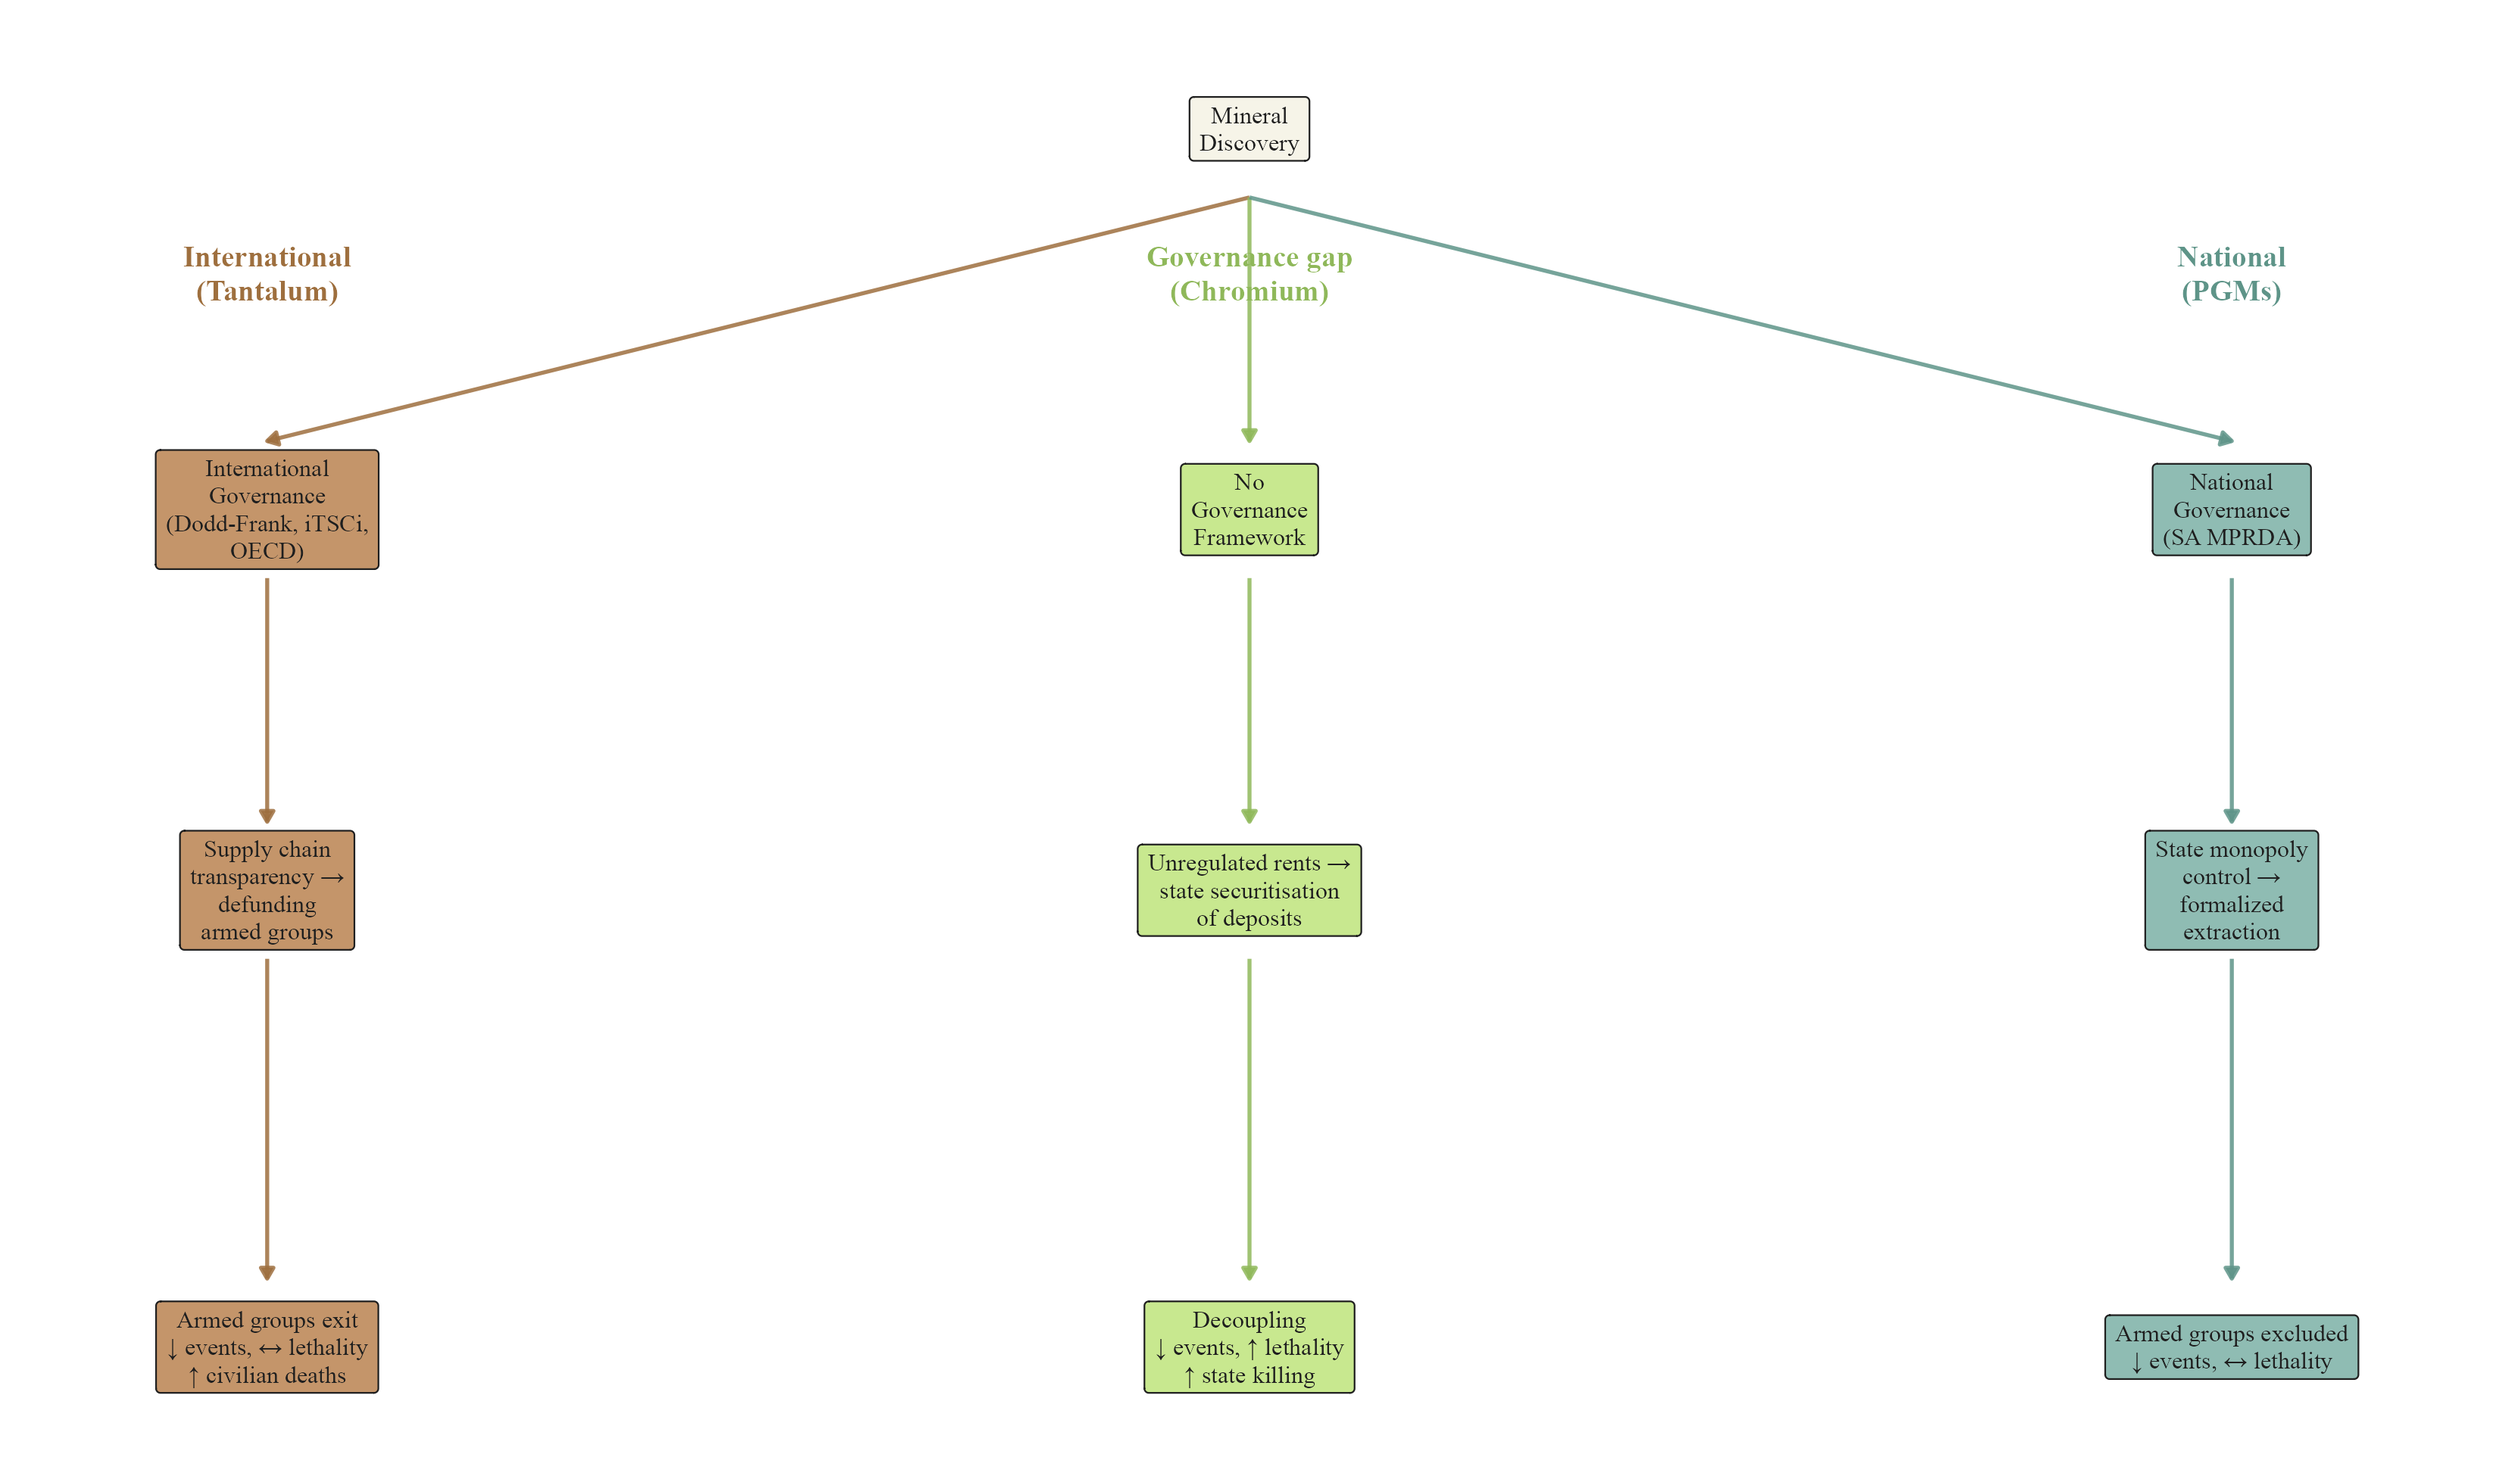
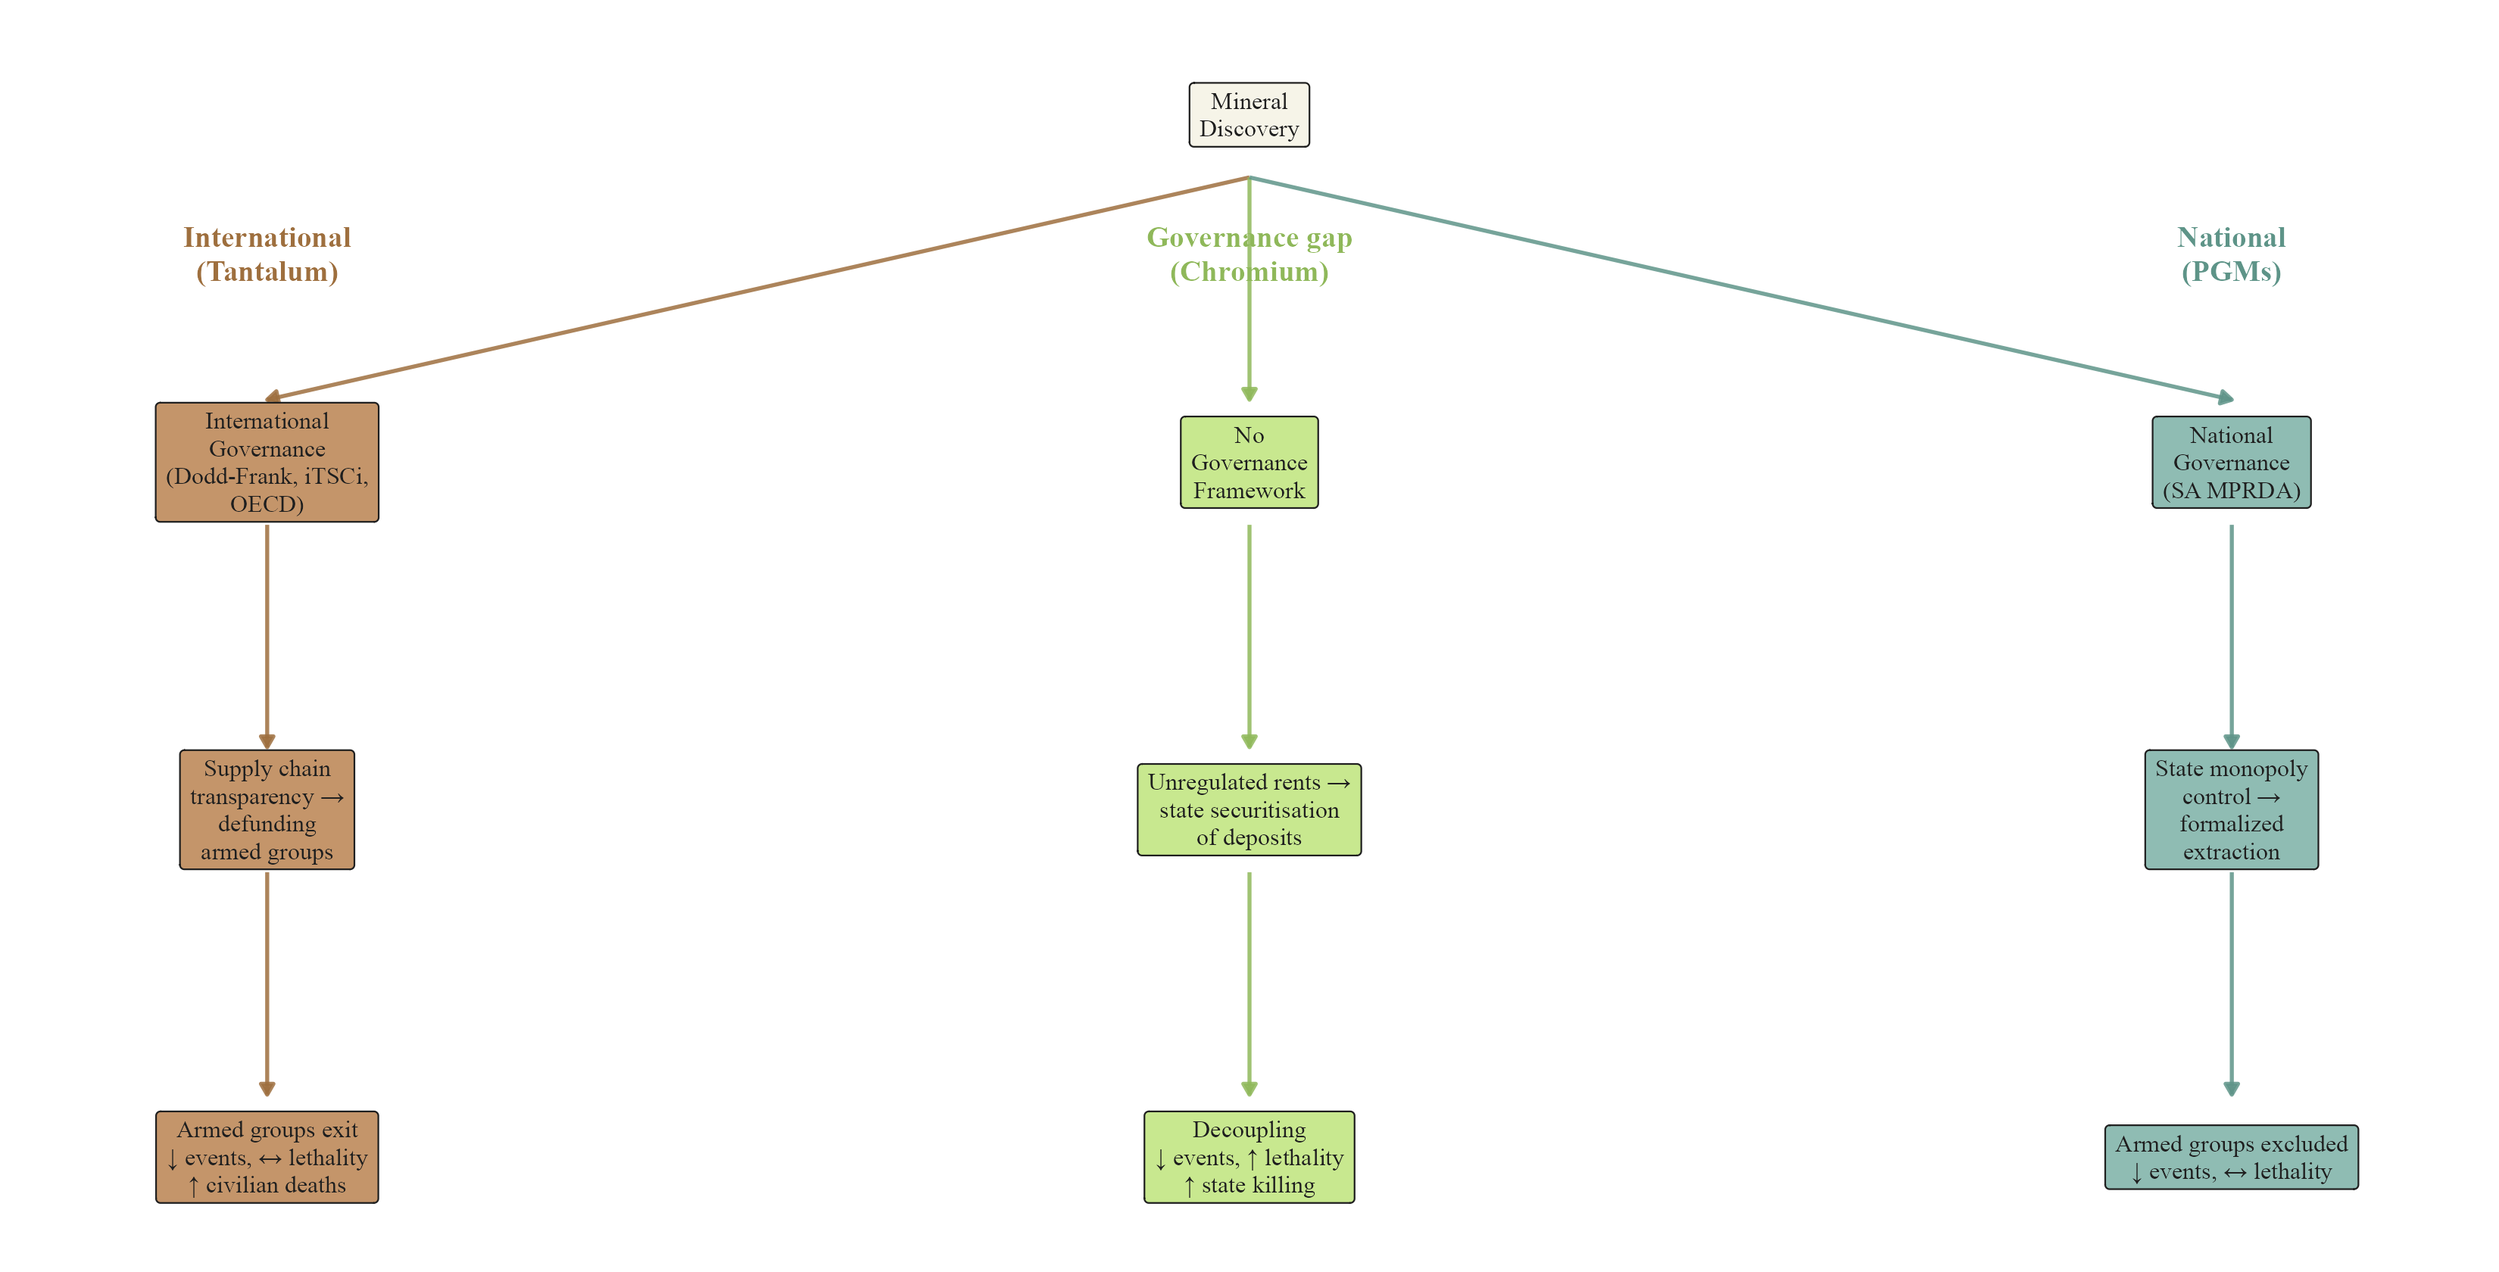
Fix Figure 1 cropping and set the conflict-events axis
Figure 1 was rendering with its outer two columns missing. The includegraphics
still carried trim=150 50 150 70 with clip, tuned to the old dark figure's
dimensions, and on the rebuilt figure that cropping cut off the tantalum and PGM
columns entirely. Trim removed and the figure now sits at full text width. Also
tightened the vertical spacing so it needs no cropping to fit.

Conflict-events panels in Figure 3 now use a fixed -2 to 2 axis across all three
minerals, so the tiers are directly comparable. Confidence intervals extend past
the panel in places, which is intended. Battle deaths keep free scales, since
their magnitudes differ by two orders across minerals.

diff --git a/main_mechanisms.tex b/main_mechanisms.tex
@@ -133,7 +133,7 @@ We expect critical minerals lacking a governance framework to exhibit a ``decoup
 
 \begin{figure}[H]
     \centering
-    \includegraphics[width=0.85\textwidth, trim=150 50 150 70, clip]{plots/governance_value_dag.png}
+    \includegraphics[width=\textwidth]{plots/governance_value_dag.png}
     \caption{Theoretical pathways from mineral discovery to conflict outcomes. The effect of discovery depends on the governance regime, and each pathway produces distinct outcomes for conflict frequency and lethality.}
     \label{fig:dag}
 \end{figure}
